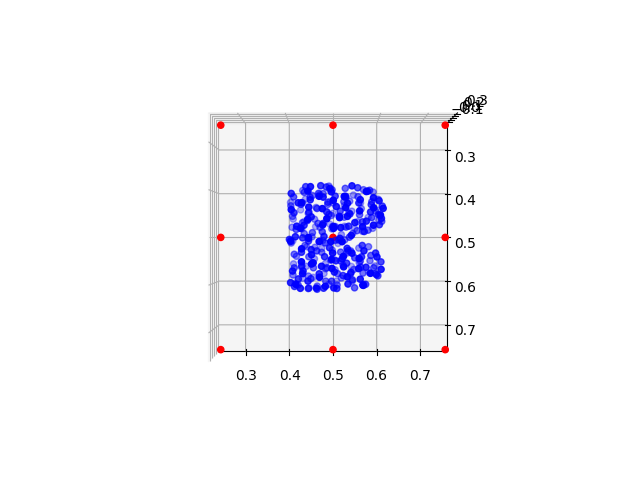
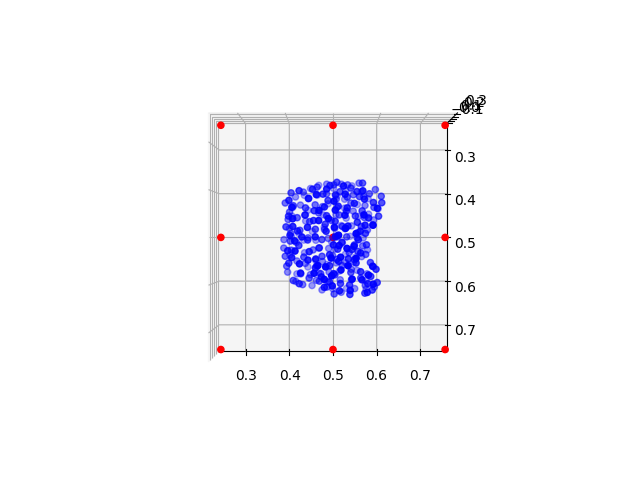
Update robot target shapes

Changed region(s): [[0.4375, 0.375, 0.625, 0.625], [0.3438, 0.2188, 0.7188, 0.2812], [0.7188, 0.1875, 0.7812, 0.2188]]

diff --git a/control_robot_correction.py b/control_robot_correction.py
@@ -15,7 +15,7 @@ import rosbag
 import torch
 
 from config import gen_args
-from data_utils import load_data, get_scene_info, get_env_group, prepare_input
+from data_utils import store_data, load_data, get_scene_info, get_env_group, prepare_input
 from data_utils import real_sim_remap
 from datetime import datetime
 from matplotlib import cm
@@ -130,7 +130,7 @@ def visualize_points(all_points, n_particles, path):
 
     fig = plt.figure()
     ax = fig.add_subplot(111, projection='3d')
-    ax.view_init(45, 135)
+    ax.view_init(90, 90)
     ax.scatter(points[:, 0], points[:, 2], points[:, 1], c='b', s=20)
     ax.scatter(shapes[:, 0], shapes[:, 2], shapes[:, 1], c='r', s=20)
     
@@ -465,9 +465,9 @@ class Planner(object):
         visualize_points(state_goal_final[-1], self.n_particle, os.path.join(self.rollout_path, f'goal_particles'))
 
         if self.args.control_algo == 'predict':
-            depth = 8 if iter == 0 else 4
+            depth = 6 if iter == 0 else 4
             _, selected_points = sample_particles(ros_correction_path, depth=depth, visualize=True)
-
+            
             # pdb.set_trace()
             # mean and std at the first frame
             if iter == 0:
@@ -480,10 +480,33 @@ class Planner(object):
                 with open(f"{self.rollout_path}/p_stats.npy", 'wb') as f:
                     np.save(f, p_stats)
                 self.p_stats_pub.publish(p_stats)
+            else:
+                p_stats = np.load(f"{self.rollout_path}/p_stats.npy", allow_pickle=True)
+                self.mean_p = p_stats[:3]
+                self.std_p = p_stats[3:]
 
             selected_points = (selected_points - self.mean_p) / self.std_p
             selected_points = np.array([selected_points.T[0], selected_points.T[2], selected_points.T[1]]).T \
                 * np.array([0.06, self.args.std_p[1], 0.06]) + np.array([0.5, self.args.mean_p[1], 0.5])
+
+            # h5_path = f'T_robot.h5'
+            # floor_pos = np.array(
+            #     [[0.25, 0., 0.25], [0.25, 0., 0.5], [0.25, 0., 0.75],
+            #     [0.5, 0., 0.25], [0.5, 0., 0.5], [0.5, 0., 0.75],
+            #     [0.75, 0., 0.25], [0.75, 0., 0.5], [0.75, 0., 0.75]]
+            # )
+            # data_names = ['positions', 'shape_quats', 'scene_params']
+
+            # positions = np.concatenate([selected_points, floor_pos])
+            # shape_quats = np.zeros((1, 4), dtype=np.float32)
+            # data = [positions, shape_quats, self.scene_params]
+
+            # store_data(data_names, data, h5_path)
+                
+            # # import pdb; pdb.set_trace()
+            # goal_data = load_data(data_names, h5_path)
+            # goal_shape = torch.FloatTensor(goal_data[0]).unsqueeze(0)[:, :self.n_particle, :]
+            # visualize_points(goal_data[0], self.n_particle, f'T_robot_sampled')
 
             state_cur = expand(self.args.n_his, torch.tensor(selected_points).unsqueeze(0))
 
@@ -1158,7 +1181,7 @@ def main():
 
         print(f"Spinning at iteration {iter}")
         ros_correction_path = "/scr/hxu/catkin_ws/src/panda_plasticine_pipeline/panda_plasticine_pipeline/dataset/"\
-            + f"ngrip_fixed_robot_1-21/22-Jan-2022-23:44:14.767862/plasticine_{iter}.bag"
+            + f"ngrip_fixed_robot_1-23/23-Jan-2022-19:40:05.480016/plasticine_{iter}.bag"
 
         if iter > last_iter and os.path.exists(ros_correction_path):
             with torch.no_grad():

diff --git a/eval.py b/eval.py
@@ -102,6 +102,41 @@ def plt_render(particles_set, n_particle, render_path):
     anim.save(render_path, writer=animation.PillowWriter(fps=20))
 
 
+def plt_render_frames(particles_set, n_particle, render_path):
+    # particles_set[0] = np.concatenate((particles_set[0][:, :n_particle], particles_set[1][:, n_particle:]), axis=1)
+    n_frames = particles_set[0].shape[0]
+    rows = 3
+    cols = 1
+
+    fig, big_axes = plt.subplots(rows, 1, figsize=(15, 5))
+    row_titles = ['GT', 'Sample', 'Prediction']
+    views = [(90, 90)]
+    plot_info_all = {}
+    for i in range(rows):
+        states = particles_set[i]
+        for step in range(3): # n_frames
+            if step == 0:
+                big_axes[i].set_title(row_titles[i], fontweight='semibold')
+                big_axes[i].axis('off')
+
+                plot_info = []
+                for j in range(cols):
+                    ax = fig.add_subplot(rows, cols, i * cols + j + 1, projection='3d')
+                    ax.view_init(*views[j])
+                    points, shapes = visualize_points(ax, states[0], n_particle)
+                    plot_info.append((points, shapes))
+
+                plot_info_all[row_titles[i]] = plot_info
+            else:
+                for j in range(cols):
+                    points, shapes = plot_info_all[row_titles[i]][j]
+                    points._offsets3d = (states[step, :n_particle, 0], states[step, :n_particle, 2], states[step, :n_particle, 1])
+                    shapes._offsets3d = (states[step, n_particle:, 0], states[step, n_particle:, 2], states[step, n_particle:, 1])
+
+            plt.tight_layout()
+            plt.savefig(f'{render_path}/{str(step).zfill(3)}.pdf')
+
+
 def plt_render_robot(particles_set, n_particle, render_path):
     # particles_set[0] = np.concatenate((particles_set[0][:, :n_particle], particles_set[1][:, n_particle:]), axis=1)
     n_frames = particles_set[0].shape[0]
@@ -357,13 +392,14 @@ def evaluate(args, eval_epoch, eval_iter):
         # vid_path = os.path.join(args.dataf, 'vid', str(idx_episode).zfill(3))
         render_path = os.path.join(args.evalf, 'render', f'vid_{idx_episode}_plt.gif')
 
-        # if args.vis == 'plt':
-        #     if 'robot' in args.data_type:
-        #         plt_render_robot([p_sample, p_pred], n_particle, render_path)
-        #     else:
-        #         plt_render([p_gt, p_sample, p_pred], n_particle, render_path)
-        # else:
-        #     raise NotImplementedError
+        if args.vis == 'plt':
+            plt_render_frames([p_gt, p_sample, p_pred], n_particle, render_path=os.path.join(args.evalf, 'render'))
+            # if 'robot' in args.data_type:
+            #     plt_render_robot([p_sample, p_pred], n_particle, render_path)
+            # else:
+            #     plt_render([p_gt, p_sample, p_pred], n_particle, render_path)
+        else:
+            raise NotImplementedError
 
     # plot the loss curves for training and evaluating
     with open(os.path.join(args.outf, 'train.npy'), 'rb') as f:
